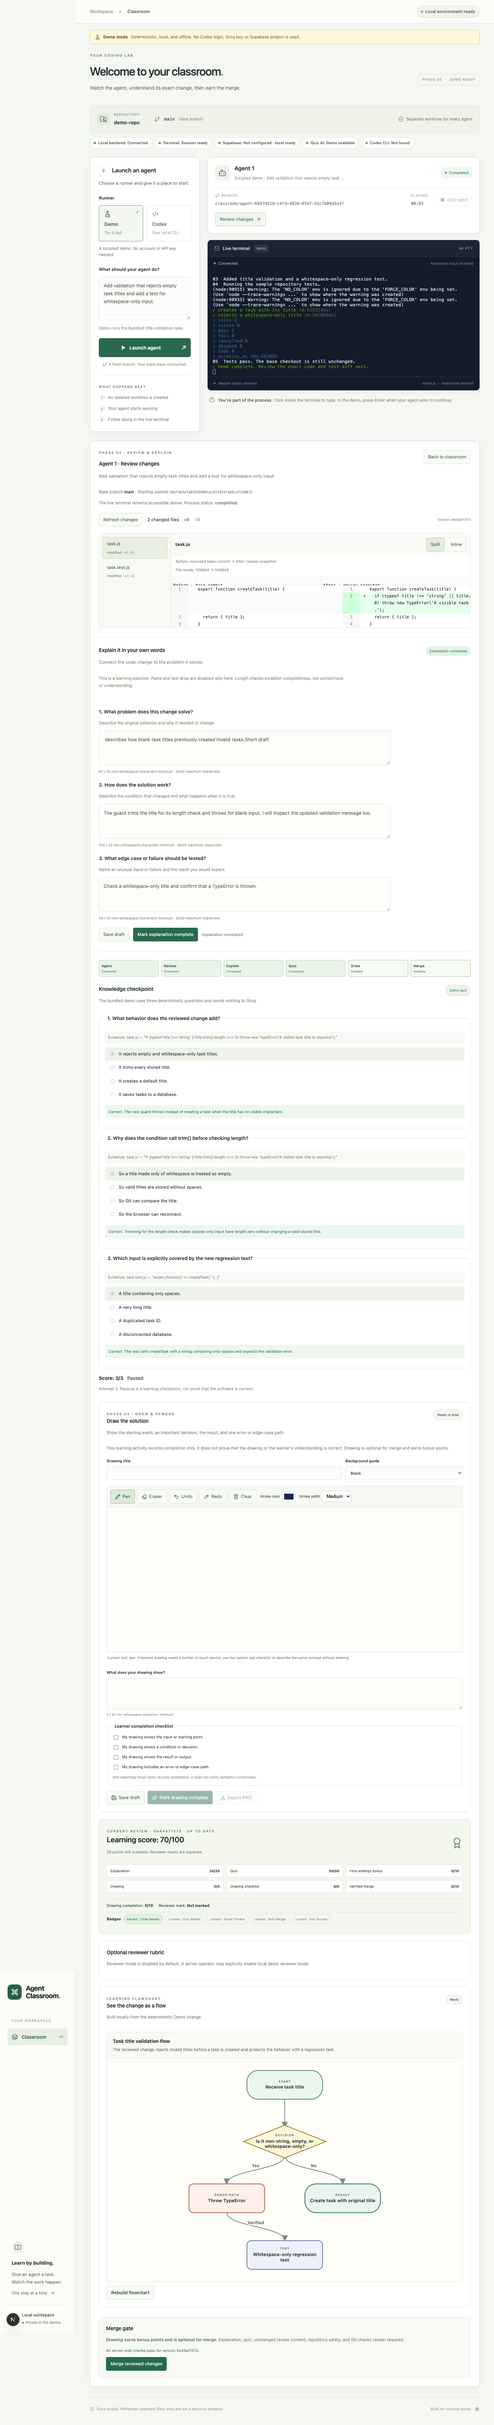
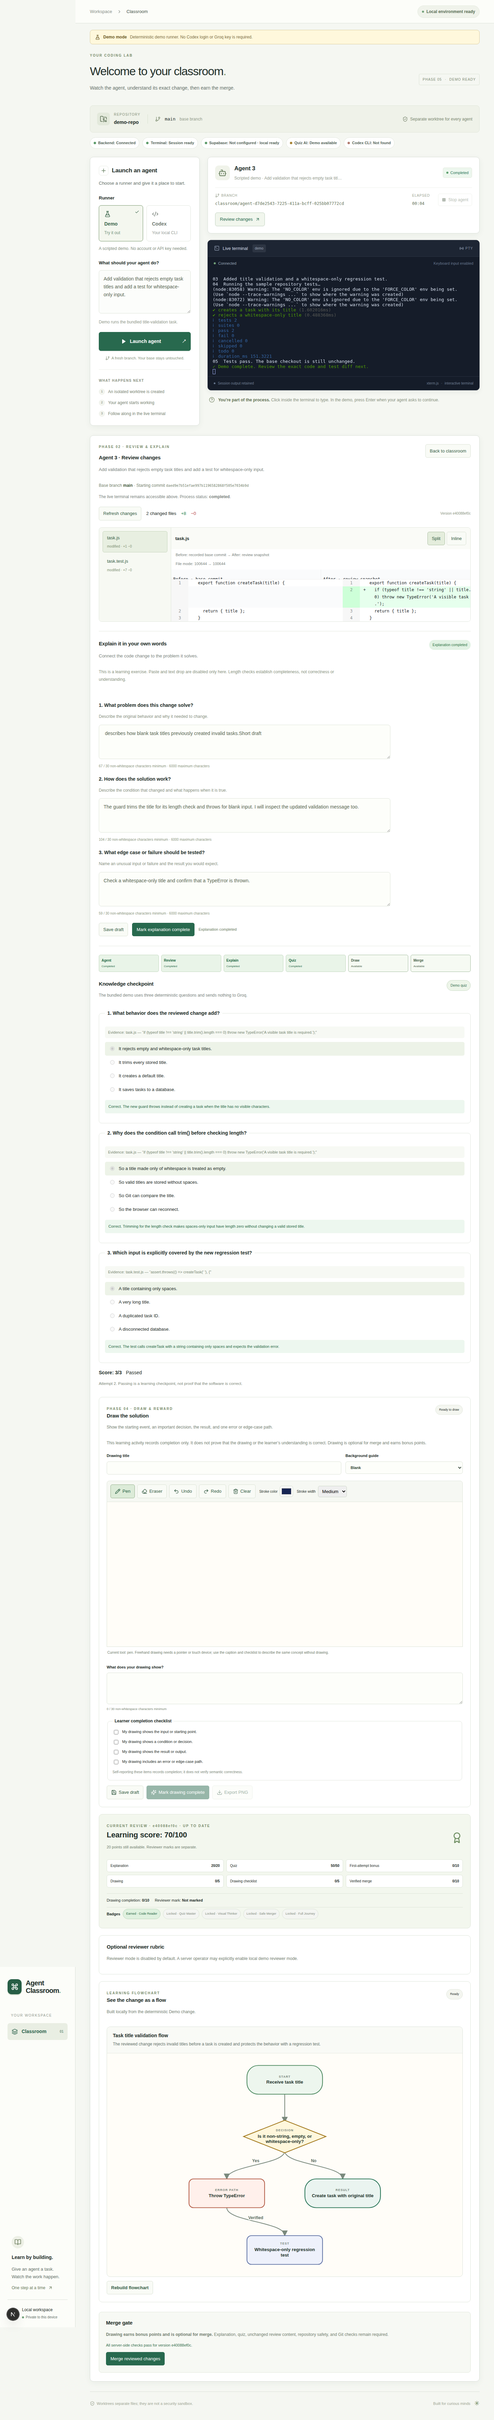
fix: enhance backend fetch with credentials and update related components

diff --git a/apps/web/app/page.tsx b/apps/web/app/page.tsx
@@ -3,13 +3,16 @@ import { useCallback, useEffect, useState } from 'react';
 import dynamic from 'next/dynamic';
 import { ArrowUpRight, BookOpen, Bot, Check, ChevronRight, CircleHelp, Code2, Command, FlaskConical, FolderGit2, GitBranch, Layers3, Play, Plus, Radio, ShieldCheck, Square, TerminalSquare } from 'lucide-react';
 import { isActive, type AgentRecord, type DependencyStatus, type RepositoryInfo } from '@classroom/shared';
+import { backendFetch } from '../lib/backend-fetch';
 const Review = dynamic(() => import('../components/review'), { ssr: false });
 const LiveTerminal = dynamic(() => import('../components/terminal'), { ssr: false });
 const backend = process.env.NEXT_PUBLIC_BACKEND_URL || 'http://127.0.0.1:4000';
+const backendHost = new URL(backend).hostname;
+const localBackend = backendHost === 'localhost' || backendHost === '127.0.0.1' || backendHost === '::1';
 const demoTask = 'Add validation that rejects empty task titles and add a test for whitespace-only input.';
 type BackendStatus = 'checking' | 'online' | 'offline';
 const requestError = (error: unknown) => error instanceof TypeError
-  ? 'The request could not reach the backend. Check that npm run dev is still running.'
+  ? 'The request could not reach the backend. Check that the configured backend is running and accessible.'
   : error instanceof Error ? error.message : 'The request failed. Please try again.';
 export default function Dashboard() {
   const [reviewAgent, setReviewAgent] = useState<AgentRecord | null>(null);
@@ -24,26 +27,26 @@ export default function Dashboard() {
   const [dependencies, setDependencies] = useState<DependencyStatus | null>(null);
   const [dependencyCheckFailed, setDependencyCheckFailed] = useState(false);
   const [now, setNow] = useState(Date.now());
-  const refresh = useCallback(async () => { try { const [health, response] = await Promise.all([fetch(`${backend}/health`), fetch(`${backend}/api/state`)]); if (!health.ok || !response.ok) throw new Error('Backend health check failed.'); const data = await response.json(); setRepository(data.repository); setBackendStatus('online'); setAgent(data.agents[0] ?? null); setRepositoryError(data.repositoryError || ''); setActionError(current => current.startsWith('The request could not reach the backend.') ? '' : current); } catch { setBackendStatus('offline'); } }, []);
-  const checkDependencies = useCallback(async () => { try { const response = await fetch(`${backend}/api/dependencies`); if (!response.ok) throw new Error(); setDependencies(await response.json()); setDependencyCheckFailed(false); } catch { setDependencies(null); setDependencyCheckFailed(true); } }, []);
+  const refresh = useCallback(async () => { try { const [health, response] = await Promise.all([backendFetch(`${backend}/health`), backendFetch(`${backend}/api/state`)]); if (!health.ok || !response.ok) throw new Error('Backend health check failed.'); const data = await response.json(); setRepository(data.repository); setBackendStatus('online'); setAgent(data.agents[0] ?? null); setRepositoryError(data.repositoryError || ''); setActionError(current => current.startsWith('The request could not reach the backend.') ? '' : current); } catch { setBackendStatus('offline'); } }, []);
+  const checkDependencies = useCallback(async () => { try { const response = await backendFetch(`${backend}/api/dependencies`); if (!response.ok) throw new Error(); setDependencies(await response.json()); setDependencyCheckFailed(false); } catch { setDependencies(null); setDependencyCheckFailed(true); } }, []);
   useEffect(() => { void refresh(); const poll = setInterval(refresh, 3000); const clock = setInterval(() => setNow(Date.now()), 1000); return () => { clearInterval(poll); clearInterval(clock); }; }, [refresh]);
   useEffect(() => { void checkDependencies(); const poll = setInterval(checkDependencies, 15000); return () => clearInterval(poll); }, [checkDependencies]);
   const online = backendStatus === 'online';
   const active = !!agent && isActive(agent.status);
-  const launch = async () => { setBusy(true); setActionError(''); try { const response = await fetch(`${backend}/api/agents`, { method: 'POST', headers: { 'Content-Type': 'application/json' }, body: JSON.stringify({ runner, task }) }); const data = await response.json(); if (!response.ok) throw new Error(data.error); setAgent(data.agent); } catch (e) { setActionError(requestError(e)); await refresh(); } finally { setBusy(false); } };
-  const stop = async () => { if (!agent) return; setBusy(true); setActionError(''); try { const response = await fetch(`${backend}/api/agents/${agent.id}/stop`, { method: 'POST' }); const data = await response.json(); if (!response.ok) throw new Error(data.error); setAgent(data.agent); } catch (e) { setActionError(requestError(e)); await refresh(); } finally { setBusy(false); } };
+  const launch = async () => { setBusy(true); setActionError(''); try { const response = await backendFetch(`${backend}/api/agents`, { method: 'POST', headers: { 'Content-Type': 'application/json' }, body: JSON.stringify({ runner, task }) }); const data = await response.json(); if (!response.ok) throw new Error(data.error); setAgent(data.agent); } catch (e) { setActionError(requestError(e)); await refresh(); } finally { setBusy(false); } };
+  const stop = async () => { if (!agent) return; setBusy(true); setActionError(''); try { const response = await backendFetch(`${backend}/api/agents/${agent.id}/stop`, { method: 'POST' }); const data = await response.json(); if (!response.ok) throw new Error(data.error); setAgent(data.agent); } catch (e) { setActionError(requestError(e)); await refresh(); } finally { setBusy(false); } };
   const elapsed = agent ? Math.max(0, Math.floor(((agent.endedAt ? Date.parse(agent.endedAt) : now) - Date.parse(agent.createdAt)) / 1000)) : 0;
   return <div className="app-shell">
-    <aside className="sidebar"><a className="brand" href="/"><span className="brand-icon"><Command size={22}/></span><span>Agent<br/>Classroom<span className="brand-period">.</span></span></a><div className="workspace-label">YOUR WORKSPACE</div><a className="nav-item selected" href="/"><Layers3 size={18}/> Classroom <span>01</span></a><div className="sidebar-note"><div className="note-icon"><BookOpen size={20}/></div><strong>Learn by building.</strong><p>Give an agent a task.<br/>Watch the work happen.</p><span>One step at a time <ArrowUpRight size={14}/></span></div><div className="sidebar-bottom"><span className="avatar">AC</span><div>Local workspace<small><span className="dot green"/> Private to this device</small></div></div></aside>
-    <div className="main-wrap"><header className="topbar"><div>Workspace <ChevronRight size={14}/><strong>Classroom</strong></div><span className={`local-pill ${backendStatus}`}><span className={`dot ${online ? 'green' : ''}`}/>{backendStatus === 'checking' ? 'Checking backend…' : online ? 'Local environment ready' : 'Backend disconnected'}</span></header>
-    <main><div className="demo-banner" role="status"><FlaskConical size={15}/><strong>Demo mode</strong><span>Deterministic, local, and offline. No Codex login, Groq key, or Supabase project is used.</span></div><div className="page-heading"><div className="eyebrow">YOUR CODING LAB</div><div className="heading-row"><div><h1>Welcome to your classroom<span>.</span></h1><p>Watch the agent, understand its exact change, then earn the merge.</p></div><span className="phase-label">PHASE 05 <span>·</span> DEMO READY</span></div></div>
-    <div className="repository-bar"><span className="repo-icon"><FolderGit2 size={21}/></span><div><small>REPOSITORY</small><strong>{backendStatus === 'checking' ? 'Checking repository…' : repository?.name || 'Repository unavailable'}</strong></div><span className="repo-divider"/><GitBranch size={16}/><span className="base-branch">{repository?.baseBranch || '—'}</span><span className="base-label">base branch</span><span className="repo-right"><ShieldCheck size={16}/> Separate worktree for every agent</span></div><div className="service-statuses" aria-label="System health"><span title="Backend HTTP and state API"><i className={online ? 'available' : backendStatus === 'checking' ? 'checking' : ''}/>Local backend: {backendStatus === 'checking' ? 'Checking…' : online ? 'Connected' : 'Unavailable'}</span><span title="Opens when an agent session starts"><i className={online ? 'available' : backendStatus === 'checking' ? 'checking' : ''}/>Terminal: {agent ? 'Session ready' : online ? 'Ready on launch' : 'Unavailable'}</span><span title={dependencies?.database.message}><i className={dependencies?.database.available ? 'available' : !dependencies && !dependencyCheckFailed ? 'checking' : ''}/>Supabase: {!dependencies ? dependencyCheckFailed ? 'Check failed' : 'Checking…' : dependencies.database.mode === 'supabase' ? dependencies.database.available ? 'Connected' : 'Unavailable' : 'Not configured · local ready'}</span><span title={dependencies?.quizProvider.message}><i className={dependencies?.quizProvider.configured ? 'available' : !dependencies && !dependencyCheckFailed ? 'checking' : 'demo'}/>Quiz AI: {!dependencies ? dependencyCheckFailed ? 'Check failed' : 'Checking…' : dependencies.quizProvider.configured ? 'Groq configured' : 'Demo available'}</span><span title={dependencies?.codex?.message}><i className={dependencies?.codex?.available ? 'available' : !dependencies && !dependencyCheckFailed ? 'checking' : ''}/>Codex CLI: {!dependencies ? dependencyCheckFailed ? 'Check failed' : 'Checking…' : dependencies.codex?.available ? 'Available' : 'Not found'}</span></div>
-    {backendStatus === 'offline' && <div className="connection-error" role="alert"><div><strong>Cannot reach the backend.</strong><span>Keep <code>npm run dev</code> running in this project. The page will reconnect automatically.</span></div><button type="button" onClick={() => { setBackendStatus('checking'); void Promise.all([refresh(), checkDependencies()]); }}>Check again</button></div>}{repositoryError && <div className="error" role="alert">{repositoryError}</div>}{actionError && <div className="error" role="alert">{actionError}</div>}
+    <aside className="sidebar"><a className="brand" href="/"><span className="brand-icon"><Command size={22}/></span><span>Agent<br/>Classroom<span className="brand-period">.</span></span></a><div className="workspace-label">YOUR WORKSPACE</div><a className="nav-item selected" href="/"><Layers3 size={18}/> Classroom <span>01</span></a><div className="sidebar-note"><div className="note-icon"><BookOpen size={20}/></div><strong>Learn by building.</strong><p>Give an agent a task.<br/>Watch the work happen.</p><span>One step at a time <ArrowUpRight size={14}/></span></div><div className="sidebar-bottom"><span className="avatar">AC</span><div>{localBackend ? 'Local workspace' : 'Remote workspace'}<small><span className="dot green"/> {localBackend ? 'Private to this device' : backendHost}</small></div></div></aside>
+    <div className="main-wrap"><header className="topbar"><div>Workspace <ChevronRight size={14}/><strong>Classroom</strong></div><span className={`local-pill ${backendStatus}`}><span className={`dot ${online ? 'green' : ''}`}/>{backendStatus === 'checking' ? 'Checking backend…' : online ? localBackend ? 'Local environment ready' : 'Remote backend connected' : 'Backend disconnected'}</span></header>
+    <main><div className="demo-banner" role="status"><FlaskConical size={15}/><strong>Demo mode</strong><span>Deterministic demo runner. No Codex login or Groq key is required.</span></div><div className="page-heading"><div className="eyebrow">YOUR CODING LAB</div><div className="heading-row"><div><h1>Welcome to your classroom<span>.</span></h1><p>Watch the agent, understand its exact change, then earn the merge.</p></div><span className="phase-label">PHASE 05 <span>·</span> DEMO READY</span></div></div>
+    <div className="repository-bar"><span className="repo-icon"><FolderGit2 size={21}/></span><div><small>REPOSITORY</small><strong>{backendStatus === 'checking' ? 'Checking repository…' : repository?.name || 'Repository unavailable'}</strong></div><span className="repo-divider"/><GitBranch size={16}/><span className="base-branch">{repository?.baseBranch || '—'}</span><span className="base-label">base branch</span><span className="repo-right"><ShieldCheck size={16}/> Separate worktree for every agent</span></div><div className="service-statuses" aria-label="System health"><span title="Backend HTTP and state API"><i className={online ? 'available' : backendStatus === 'checking' ? 'checking' : ''}/>Backend: {backendStatus === 'checking' ? 'Checking…' : online ? 'Connected' : 'Unavailable'}</span><span title="Opens when an agent session starts"><i className={online ? 'available' : backendStatus === 'checking' ? 'checking' : ''}/>Terminal: {agent ? 'Session ready' : online ? 'Ready on launch' : 'Unavailable'}</span><span title={dependencies?.database.message}><i className={dependencies?.database.available ? 'available' : !dependencies && !dependencyCheckFailed ? 'checking' : ''}/>Supabase: {!dependencies ? dependencyCheckFailed ? 'Check failed' : 'Checking…' : dependencies.database.mode === 'supabase' ? dependencies.database.available ? 'Connected' : 'Unavailable' : 'Not configured · local ready'}</span><span title={dependencies?.quizProvider.message}><i className={dependencies?.quizProvider.configured ? 'available' : !dependencies && !dependencyCheckFailed ? 'checking' : 'demo'}/>Quiz AI: {!dependencies ? dependencyCheckFailed ? 'Check failed' : 'Checking…' : dependencies.quizProvider.configured ? 'Groq configured' : 'Demo available'}</span><span title={dependencies?.codex?.message}><i className={dependencies?.codex?.available ? 'available' : !dependencies && !dependencyCheckFailed ? 'checking' : ''}/>Codex CLI: {!dependencies ? dependencyCheckFailed ? 'Check failed' : 'Checking…' : dependencies.codex?.available ? 'Available' : 'Not found'}</span></div>
+    {backendStatus === 'offline' && <div className="connection-error" role="alert"><div><strong>Cannot reach the backend.</strong><span>{localBackend ? <>Keep <code>npm run dev</code> running in this project.</> : <>Check the backend deployment, access session, and configured URL.</>} The page will reconnect automatically.</span></div><button type="button" onClick={() => { setBackendStatus('checking'); void Promise.all([refresh(), checkDependencies()]); }}>Check again</button></div>}{repositoryError && <div className="error" role="alert">{repositoryError}</div>}{actionError && <div className="error" role="alert">{actionError}</div>}
     <div className="workspace-grid"><section className="launch-panel panel"><div className="section-title"><span className="small-icon"><Plus size={18}/></span><h2>Launch an agent</h2></div><p className="section-description">Choose a runner and give it a place to start.</p><label className="field-label">Runner</label><div className="runner-options"><button className={runner === 'demo' ? 'runner selected-runner' : 'runner'} onClick={() => setRunner('demo')} disabled={active || busy || repository?.demoAllowed === false}><FlaskConical size={19}/><strong>Demo</strong><small>Try it out</small>{runner === 'demo' && <Check size={13} className="runner-check"/>}</button><button className={runner === 'codex' ? 'runner selected-runner' : 'runner'} onClick={() => setRunner('codex')} disabled={active || busy}><Code2 size={19}/><strong>Codex</strong><small>Your local CLI</small>{runner === 'codex' && <Check size={13} className="runner-check"/>}</button></div><div className="runner-description">{runner === 'demo' ? 'A scripted demo. No account or API key needed.' : 'Uses your installed Codex CLI and existing login.'}</div><label className="field-label" htmlFor="task">What should your agent do?</label><textarea id="task" value={task} onChange={e => setTask(e.target.value)} disabled={active || busy} maxLength={8000} placeholder="Describe a small coding task…"/><div className="task-caption">{runner === 'demo' ? 'Demo runs the bundled title-validation task.' : 'Be specific. Small tasks are a great start.'}</div><button className="launch-button" onClick={launch} disabled={active || busy || !online || !repository || !task.trim() || (runner === 'demo' && !repository.demoAllowed)}><Play size={15} fill="currentColor"/>{busy && !active ? 'Creating agent…' : 'Launch agent'}<span>↗</span></button><div className="launch-footnote"><GitBranch size={13}/> A fresh branch. Your base stays untouched.</div><div className="how-it-works"><strong>WHAT HAPPENS NEXT</strong><div><span>1</span> An isolated worktree is created</div><div><span>2</span> Your agent starts working</div><div><span>3</span> Follow along in the live terminal</div></div></section>
     <section className="session-column"><div className="agent-panel panel"><div className="agent-top"><span className="agent-icon"><Bot size={25}/></span><div><h2>{agent?.name || 'Your next collaborator'}</h2><p>{agent ? `${agent.runner === 'demo' ? 'Scripted demo' : 'Codex CLI'} · ${agent.task}` : 'Ready when you are. Launch an agent to begin.'}</p></div><span className={`status status-${agent?.status || 'ready'}`}><span className="dot"/>{agent?.status || 'Ready'}</span></div><div className="agent-meta"><div><small><GitBranch size={13}/> BRANCH</small><span title={agent?.branch}>{agent?.branch || 'Created on launch'}</span></div><div><small>ELAPSED</small><span>{String(Math.floor(elapsed / 60)).padStart(2, '0')}:{String(elapsed % 60).padStart(2, '0')}</span></div><button className="stop-button" disabled={!active || agent?.status === 'stopping' || busy} onClick={stop}><Square size={12} fill="currentColor"/>{agent?.status === 'stopping' ? 'Stopping…' : 'Stop agent'}</button></div>{agent && !isActive(agent.status) && agent.worktree && <button className="review-entry" onClick={() => { setReviewAgent(agent); setTimeout(() => document.querySelector('.review-panel')?.scrollIntoView({ behavior: 'smooth' }), 100); }}>Review changes <ArrowUpRight size={14}/></button>}{agent?.error && <div className="agent-error" role="alert">{agent.error}</div>}</div>
     <div className="terminal-panel"><div className="terminal-toolbar"><div><TerminalSquare size={16}/><strong>Live terminal</strong><span className="terminal-tab">{agent?.runner || 'session'}</span></div><span className="terminal-live"><Radio size={13}/>{active ? 'LIVE' : 'PTY'}</span></div>{agent ? <LiveTerminal id={agent.id} backend={backend} onStatus={setAgent}/> : <div className="terminal-empty"><div className="terminal-watermark"><TerminalSquare size={29}/></div><h3>A front-row seat to the process.</h3><p>Your agent’s terminal will appear here.<br/>Watch it work, type a response, and learn along the way.</p><span><span className="prompt-symbol">❯</span><span className="cursor"/></span></div>}<div className="terminal-bottom"><span><span className="dot"/>{agent ? 'Session output retained' : 'Waiting for an agent'}</span><span>xterm.js <span>·</span> interactive terminal</span></div></div>
     <div className="tip"><CircleHelp size={17}/><p><strong>You’re part of the process.</strong> Click inside the terminal to type. In the demo, press Enter when your agent asks to continue.</p></div></section></div>
     {reviewAgent && <Review key={reviewAgent.id} agent={reviewAgent} backend={backend} onClose={() => setReviewAgent(null)}/>}
-    <footer><span><ShieldCheck size={14}/> Runs locally. Worktrees separate files; they are not a security sandbox.</span><span>Built for curious minds <span className="footer-star">✳</span></span></footer></main></div>
+    <footer><span><ShieldCheck size={14}/> Worktrees separate files; they are not a security sandbox.</span><span>Built for curious minds <span className="footer-star">✳</span></span></footer></main></div>
   </div>;
 }

diff --git a/apps/web/components/review.tsx b/apps/web/components/review.tsx
@@ -2,6 +2,7 @@
 import { useEffect, useState } from 'react';
 import dynamic from 'next/dynamic';
 import { answerKeys, explanationComplete, EXPLANATION_MIN, EXPLANATION_MAX, nonWhitespaceLength, type AgentRecord, type Answers, type ReviewSnapshot, type ReviewContent, type ExplanationRecord } from '@classroom/shared';
+import { backendFetch } from '../lib/backend-fetch';
 const DiffViewer = dynamic(() => import('react-diff-viewer-continued'), { ssr: false, loading: () => <p>Loading diff viewer…</p> });
 const QuizMerge = dynamic(() => import('./quiz-merge'), { ssr: false });
 const empty: Answers = { problem: '', solution: '', edgeCase: '' };
@@ -15,7 +16,7 @@ export default function Review({ agent, backend, onClose }: { agent: AgentRecord
   const [message, setMessage] = useState(''); const [pasteMessage, setPasteMessage] = useState('');
   const [split, setSplit] = useState(true);
   const endpoint = `${backend}/api/agents/${agent.id}`;
-  async function request<T>(route: string, init?: RequestInit): Promise<T> { const response = await fetch(endpoint + route, init); const data = await response.json(); if (!response.ok) throw Object.assign(new Error(data.error || 'Request failed.'), { status: response.status }); return data; }
+  async function request<T>(route: string, init?: RequestInit): Promise<T> { const response = await backendFetch(endpoint + route, init); const data = await response.json(); if (!response.ok) throw Object.assign(new Error(data.error || 'Request failed.'), { status: response.status }); return data; }
   useEffect(() => { const narrow = window.matchMedia('(max-width: 800px)'); const change = () => setSplit(!narrow.matches); change(); narrow.addEventListener('change', change); return () => narrow.removeEventListener('change', change); }, []);
   useEffect(() => { let cancelled = false; setBusy(true); request<ReviewSnapshot>('/review').then(data => { if (cancelled) return; setReview(data); setSelected(data.files[0]?.id ?? ''); setAnswers(data.explanation?.answers ?? data.previousExplanation?.answers ?? empty); setMessage(data.explanation?.status === 'completed' ? 'Explanation completed' : data.explanation ? 'Saved draft restored' : data.previousExplanation ? 'Earlier writing restored. Review this version and save it again.' : ''); }).catch(e => { if (!cancelled) setError(e.message); }).finally(() => { if (!cancelled) setBusy(false); }); return () => { cancelled = true; }; }, [endpoint]); // eslint-disable-line react-hooks/exhaustive-deps
   useEffect(() => { if (!dirty) return; const guard = (event: BeforeUnloadEvent) => { event.preventDefault(); event.returnValue = ''; }; window.addEventListener('beforeunload', guard); return () => window.removeEventListener('beforeunload', guard); }, [dirty]);

diff --git a/apps/web/components/drawing-score.tsx b/apps/web/components/drawing-score.tsx
@@ -4,13 +4,14 @@ import { ReactSketchCanvas, type CanvasPath, type ReactSketchCanvasRef } from 'r
 import confetti from 'canvas-confetti';
 import { Award, Download, Eraser, Pencil, Redo2, RotateCcw, Save, Sparkles, Trash2, Undo2 } from 'lucide-react';
 import { DRAWING_CAPTION_MAX, DRAWING_CAPTION_MIN, DRAWING_TITLE_MAX, badgeKeys, nonWhitespaceLength, type BadgeKey, type DrawingChecklist, type DrawingGuide, type DrawingRecord, type ReviewerMark, type ScoreSummary } from '@classroom/shared';
+import { backendFetch } from '../lib/backend-fetch';
 
 const emptyChecklist: DrawingChecklist = { input: false, condition: false, result: false, edgeCase: false };
 const badgeLabels: Record<BadgeKey, string> = { code_reader: 'Code Reader', quiz_master: 'Quiz Master', visual_thinker: 'Visual Thinker', safe_merger: 'Safe Merger', full_journey: 'Full Journey' };
 const guideLabels: Record<DrawingGuide, string> = { blank: 'Blank', flowchart: 'Flowchart', 'before-after': 'Before and after', 'input-condition-result': 'Input → condition → result' };
 const rubricLabels = { relationship: 'Relationship to the reviewed code', flow: 'Clarity of the control or data flow', condition: 'Correct representation of the main condition', edgeCase: 'Inclusion of an error or edge case' } as const;
 
-async function api<T>(url: string, init?: RequestInit): Promise<T> { const response = await fetch(url, init); const data = await response.json(); if (!response.ok) throw Object.assign(new Error(data.error || 'Request failed.'), { code: data.code, details: data.details }); return data; }
+async function api<T>(url: string, init?: RequestInit): Promise<T> { const response = await backendFetch(url, init); const data = await response.json(); if (!response.ok) throw Object.assign(new Error(data.error || 'Request failed.'), { code: data.code, details: data.details }); return data; }
 function celebrate() { if (window.matchMedia('(prefers-reduced-motion: reduce)').matches) return; void confetti({ particleCount: 60, spread: 55, origin: { y: .75 }, disableForReducedMotion: true, scalar: .8, ticks: 130 }); }
 function guideImage(guide: DrawingGuide) {
   if (guide === 'blank') return '';

diff --git a/apps/server/src/server.ts b/apps/server/src/server.ts
@@ -28,7 +28,7 @@ export async function createApp(manager: AgentManager, origins: string[], option
   const server = createServer(async (req, res) => {
     if (req.method === 'GET' && req.url === '/health' && !req.headers.origin) { res.writeHead(200, { 'Content-Type': 'application/json', 'Cache-Control': 'no-store' }); res.end(JSON.stringify({ status: 'ok', service: 'agent-classroom', pid: process.pid })); return; }
     if (!validOrigin(req)) { res.writeHead(403); res.end('Origin not allowed.'); return; }
-    res.setHeader('Access-Control-Allow-Origin', req.headers.origin!); res.setHeader('Vary', 'Origin');
+    res.setHeader('Access-Control-Allow-Origin', req.headers.origin!); res.setHeader('Access-Control-Allow-Credentials', 'true'); res.setHeader('Vary', 'Origin');
     res.setHeader('Cache-Control', 'no-store');
     if (req.method === 'OPTIONS') { res.setHeader('Access-Control-Allow-Methods', 'GET, POST, PUT'); res.setHeader('Access-Control-Allow-Headers', 'Content-Type'); res.writeHead(204); res.end(); return; }
     const reply = (status: number, body: unknown) => { res.writeHead(status, { 'Content-Type': 'application/json' }); res.end(JSON.stringify(body)); };

diff --git a/tests/resilience.spec.ts b/tests/resilience.spec.ts
@@ -2,12 +2,12 @@ import { expect, test } from '@playwright/test';
 
 test('backend disconnection is distinct and recovers without a reload', async ({ page }) => {
   await page.goto('/');
-  await expect(page.getByText('Local backend: Connected')).toBeVisible();
+  await expect(page.getByText('Backend: Connected')).toBeVisible();
   await page.route('http://127.0.0.1:4100/api/state', route => route.abort('connectionfailed'));
   await expect(page.getByText('Cannot reach the backend.')).toBeVisible({ timeout: 7_000 });
   await expect(page.getByText(/Supabase:/)).toBeVisible();
   await page.unroute('http://127.0.0.1:4100/api/state');
-  await expect(page.getByText('Local backend: Connected')).toBeVisible({ timeout: 7_000 });
+  await expect(page.getByText('Backend: Connected')).toBeVisible({ timeout: 7_000 });
 });
 
 test('keyboard focus is visible and reduced motion suppresses achievement canvas', async ({ page }) => {

diff --git a/apps/web/components/quiz-merge.tsx b/apps/web/components/quiz-merge.tsx
@@ -4,9 +4,10 @@ import { learningDiagramSchema, type AgentRecord, type LearningDiagram, type Mer
 import confetti from 'canvas-confetti';
 import DrawingScore from './drawing-score';
 import LearningDiagramView from './learning-diagram';
+import { backendFetch } from '../lib/backend-fetch';
 
 async function api<T>(url: string, init?: RequestInit): Promise<T> {
-  const response = await fetch(url, init); const data = await response.json();
+  const response = await backendFetch(url, init); const data = await response.json();
   if (!response.ok) throw Object.assign(new Error(data.error || 'Request failed.'), { code: data.code, status: response.status, details: data.details });
   return data;
 }

diff --git a/apps/web/lib/backend-fetch.ts b/apps/web/lib/backend-fetch.ts
@@ -1,0 +1,3 @@
+export function backendFetch(input: RequestInfo | URL, init: RequestInit = {}) {
+  return fetch(input, { ...init, credentials: 'include' });
+}

diff --git a/docs/DEPLOYMENT.md b/docs/DEPLOYMENT.md
@@ -17,6 +17,8 @@ The frontend is suitable for Vercel. The backend is intentionally not packaged a
 
 This repository is a single-user coding classroom, not a multi-tenant SaaS application. Exact CORS origins reduce browser exposure but are not authentication: a non-browser client can forge an `Origin` header. Before exposing a backend to the public internet, protect both deployments with an identity-aware access layer or provider deployment protection. Do not offer anonymous access to a backend that can start processes or modify repositories.
 
+Treat this as a release blocker. The frontend sends credentials with every backend request, and the backend permits credentialed requests only from exact configured origins, so a cookie-based access proxy can protect the split deployment. Prefer frontend and backend custom domains under the same parent domain, for example `classroom.example.com` and `classroom-api.example.com`, and authenticate against the backend domain before opening the app. Confirm the access layer protects WebSocket upgrades as well as HTTP requests, and allows unauthenticated CORS `OPTIONS` requests to reach the backend while protecting the actual request.
+
 Run exactly one backend replica. Agent sessions, PTYs, Git locks, and the in-memory replay buffer are process-local. Horizontal autoscaling is not supported.
 
 ## 1. Deploy the persistent backend
@@ -36,6 +38,8 @@ docker run --rm -p 4000:4000 \
 
 Deploy this image on a persistent container host such as Fly.io, Render, Railway, or a VM. Configure an HTTPS hostname, for example `https://agent-classroom-api.example.com`, and route it to container port `4000`. The provider health check is `GET /health`.
 
+The backend must be deployed before Vercel because its final HTTPS origin is compiled into the browser bundle and Content Security Policy. Use one replica and attach a persistent volume at `/app/.runtime` when `STORAGE_MODE=local`.
+
 Production backend variables:
 
 | Variable | Required | Production value |
@@ -52,11 +56,33 @@ Production backend variables:
 | `WORKTREE_ROOT` | optional | persistent path outside `TARGET_REPO` |
 | `DATA_ROOT` | local storage only | persistent data directory |
 
+For a demo deployment, `TARGET_REPO=/app/.runtime/demo-repo`, `WORKTREE_ROOT=/app/.runtime/worktrees`, and `DATA_ROOT=/app/.runtime/data` match the supplied image. For a real repository, mount that repository and its worktree parent on persistent storage and set the two paths explicitly.
+
+If using Supabase, apply the migration files in order before starting the backend:
+
+1. `supabase/migrations/20260920000000_agent_classroom_phase3.sql`
+2. `supabase/migrations/20260920010000_agent_classroom_phase4.sql`
+
+Keep `SUPABASE_SECRET_KEY` on the backend only. Never add it to Vercel or prefix it with `NEXT_PUBLIC_`. The migrations enable RLS, revoke browser roles, and keep the drawing bucket private.
+
 The supplied image supports the bundled Demo runner. A hosted Codex runner additionally requires a deliberate Codex CLI installation and non-interactive authentication strategy in your own image; credentials are not copied from the development machine.
 
 ## 2. Deploy the frontend to Vercel
 
 Import the repository as one Vercel project. Keep the repository root as the project root. `vercel.json` selects the Next.js framework, runs `npm ci`, runs the workspace-aware production build, and publishes `apps/web/.next`.
+
+For a newly imported project, use these exact settings:
+
+| Vercel setting | Value |
+| --- | --- |
+| Framework Preset | `Next.js` |
+| Root Directory | repository root (leave blank) |
+| Install Command | use `vercel.json` (`npm ci`) |
+| Build Command | use `vercel.json` (`npm run vercel-build`) |
+| Output Directory | use `vercel.json` (`apps/web/.next`) |
+| Node.js | `24.x` (current Vercel default; the app supports Node 22+) |
+
+Do not select `apps/web` as Root Directory. If Vercel reports a path ending in `apps/web/apps/web/.next`, the Root Directory is wrong: clear it and redeploy.
 
 Set this variable for both Preview and Production:
 
@@ -65,6 +91,8 @@ NEXT_PUBLIC_BACKEND_URL=https://agent-classroom-api.example.com
 ```
 
 It must be the bare HTTPS origin with no trailing path. The build fails instead of silently embedding localhost when this variable is missing or invalid on Vercel. Because it is a `NEXT_PUBLIC_` value, it is intentionally visible to browsers and must never contain credentials.
+
+Add the variable before the first deployment. If Preview and Production use different protected backends, scope each value to its matching Vercel environment. Otherwise, disable Preview deployments or use one stable protected staging backend; arbitrary preview origins will not pass the backend's exact-origin policy.
 
 Deploy from Git or with the CLI:
 
@@ -84,6 +112,8 @@ ALLOWED_ORIGINS=https://classroom.example.com,https://classroom-staging.example.
 ```
 
 Use a stable staging domain for Preview instead of allowing every `*.vercel.app` deployment. Restart the backend after changing its origin list.
+
+After Vercel assigns the production domain, add that exact origin to `ALLOWED_ORIGINS` on the backend and restart it. If you later attach a custom domain, add the custom origin before switching traffic. Origins must not include a path or trailing slash.
 
 ## 4. Production verification
 
@@ -105,6 +135,27 @@ After deployment, verify:
 3. A Demo agent launches and its WebSocket terminal accepts Enter.
 4. Review, quiz, local flowchart, and merge complete against a disposable repository.
 5. Restart the container and confirm persisted run metadata returns; an active PTY must correctly become `interrupted`.
+
+For a clean Vercel re-import:
+
+1. Delete the old Vercel project, then choose **Add New → Project** and import `badrulhusain/DhakAI`.
+2. Leave **Root Directory** blank. Do not choose `apps/web`.
+3. Add `NEXT_PUBLIC_BACKEND_URL` to Production and Preview before deploying.
+4. Deploy and confirm the build log runs `node scripts/build.mjs`, not `node ../../scripts/build.mjs`.
+5. Confirm the output is found at `/vercel/path0/apps/web/.next`.
+6. Add the final Vercel origin to the backend's `ALLOWED_ORIGINS`, restart the backend, then run the browser checks above.
+
+With the Vercel CLI installed, the equivalent local workflow is:
+
+```sh
+npm i -g vercel
+vercel link
+vercel env pull .env.local --environment=production
+vercel build --prod
+vercel deploy --prebuilt --prod
+```
+
+Do not commit `.vercel`, `.env.local`, or any pulled secrets.
 
 ## Operational limits
 

diff --git a/README.md b/README.md
@@ -69,7 +69,7 @@ This turns the coding agent into an interactive teaching tool rather than a blac
 - **Backend:** Node.js, TypeScript, WebSocket, node-pty, execa
 - **Database:** Supabase PostgreSQL with a local demo-storage option
 - **APIs / Services:** OpenAI Codex CLI, Groq API, Supabase Storage
-- **Hosting / Deployment:** [Add hosting provider and deployed URL]
+- **Hosting / Deployment:** Vercel frontend plus one persistent backend container
 - **Other Tools:** Git worktrees, simple-git, React diff viewer, React sketch canvas, `@react-pdf/renderer`, Playwright
 
 ## Codex / OpenAI Usage
@@ -133,40 +133,39 @@ The recommended demo flow is:
 *A short demo/pitch video is strongly recommended.* Show the project working and briefly explain the problem, solution, and key features.
 
 ## Screenshots
-available in this directory:dhakai/test-results
-google drive :https://drive.google.com/file/d/1MLLA1teVkj6lglQRu1fTJjAd99ftyOqb/view?usp=sharing
+
+The verified demo screenshots are stored in `docs/demo/screenshots`. The demo recording is also available on [Google Drive](https://drive.google.com/file/d/1MLLA1teVkj6lglQRu1fTJjAd99ftyOqb/view?usp=sharing).
+
 ### Agent Workspace and Live Terminal
 
-![Agent workspace and terminal](./docs/screenshots/01-agent-workspace.png)
+![Agent workspace and terminal](./docs/demo/screenshots/02-live-terminal.png)
 
-### Prediction Checkpoint
+### Classroom Dashboard
 
-![Pause and Predict checkpoint](./docs/screenshots/02-prediction-checkpoint.png)
+![Classroom dashboard](./docs/demo/screenshots/01-dashboard.png)
 
 ### Diff Review and Change Story
 
-![Diff review](./docs/screenshots/03-diff-review.png)
+![Diff review](./docs/demo/screenshots/03-review-and-explain.png)
 
 ### Quiz and Merge Gate
 
-![Quiz and locked merge](./docs/screenshots/04-quiz-merge-gate.png)
+![Quiz and locked merge](./docs/demo/screenshots/04-quiz-retry.png)
 
 ### Solution Map and Learning Score
 
-![Solution map and score](./docs/screenshots/05-solution-map.png)
+![Solution map and score](./docs/demo/screenshots/05-drawing-unlocked.png)
 
 ### Learning Proof Report
 
-![Learning Proof Report](./docs/screenshots/06-learning-proof.png)
-
-Replace these image paths with the final screenshots committed to the repository.
+![Completed learning journey](./docs/demo/screenshots/06-merge-success.png)
 
 ## How to Run Locally
 
 ```bash
-git clone <repo-url>
-cd <project-folder>
-npm install
+git clone https://github.com/badrulhusain/DhakAI.git
+cd DhakAI
+npm ci
 npm run dev
 ```
 
@@ -200,4 +199,11 @@ Run the project checks:
 npm run test
 npm run test:e2e
 npm run typecheck
-npm
+NEXT_PUBLIC_BACKEND_URL=https://agent-classroom-api.example.com VERCEL=1 npm run vercel-build
+```
+
+## Production deployment
+
+Production uses two services: the Next.js frontend on Vercel and one persistent backend container with Git, PTY, and WebSocket support. Deploy the backend first, then import the repository into Vercel with the repository root selected. Do not set `apps/web` as Vercel's Root Directory.
+
+Follow the complete [production deployment checklist](./docs/DEPLOYMENT.md).
